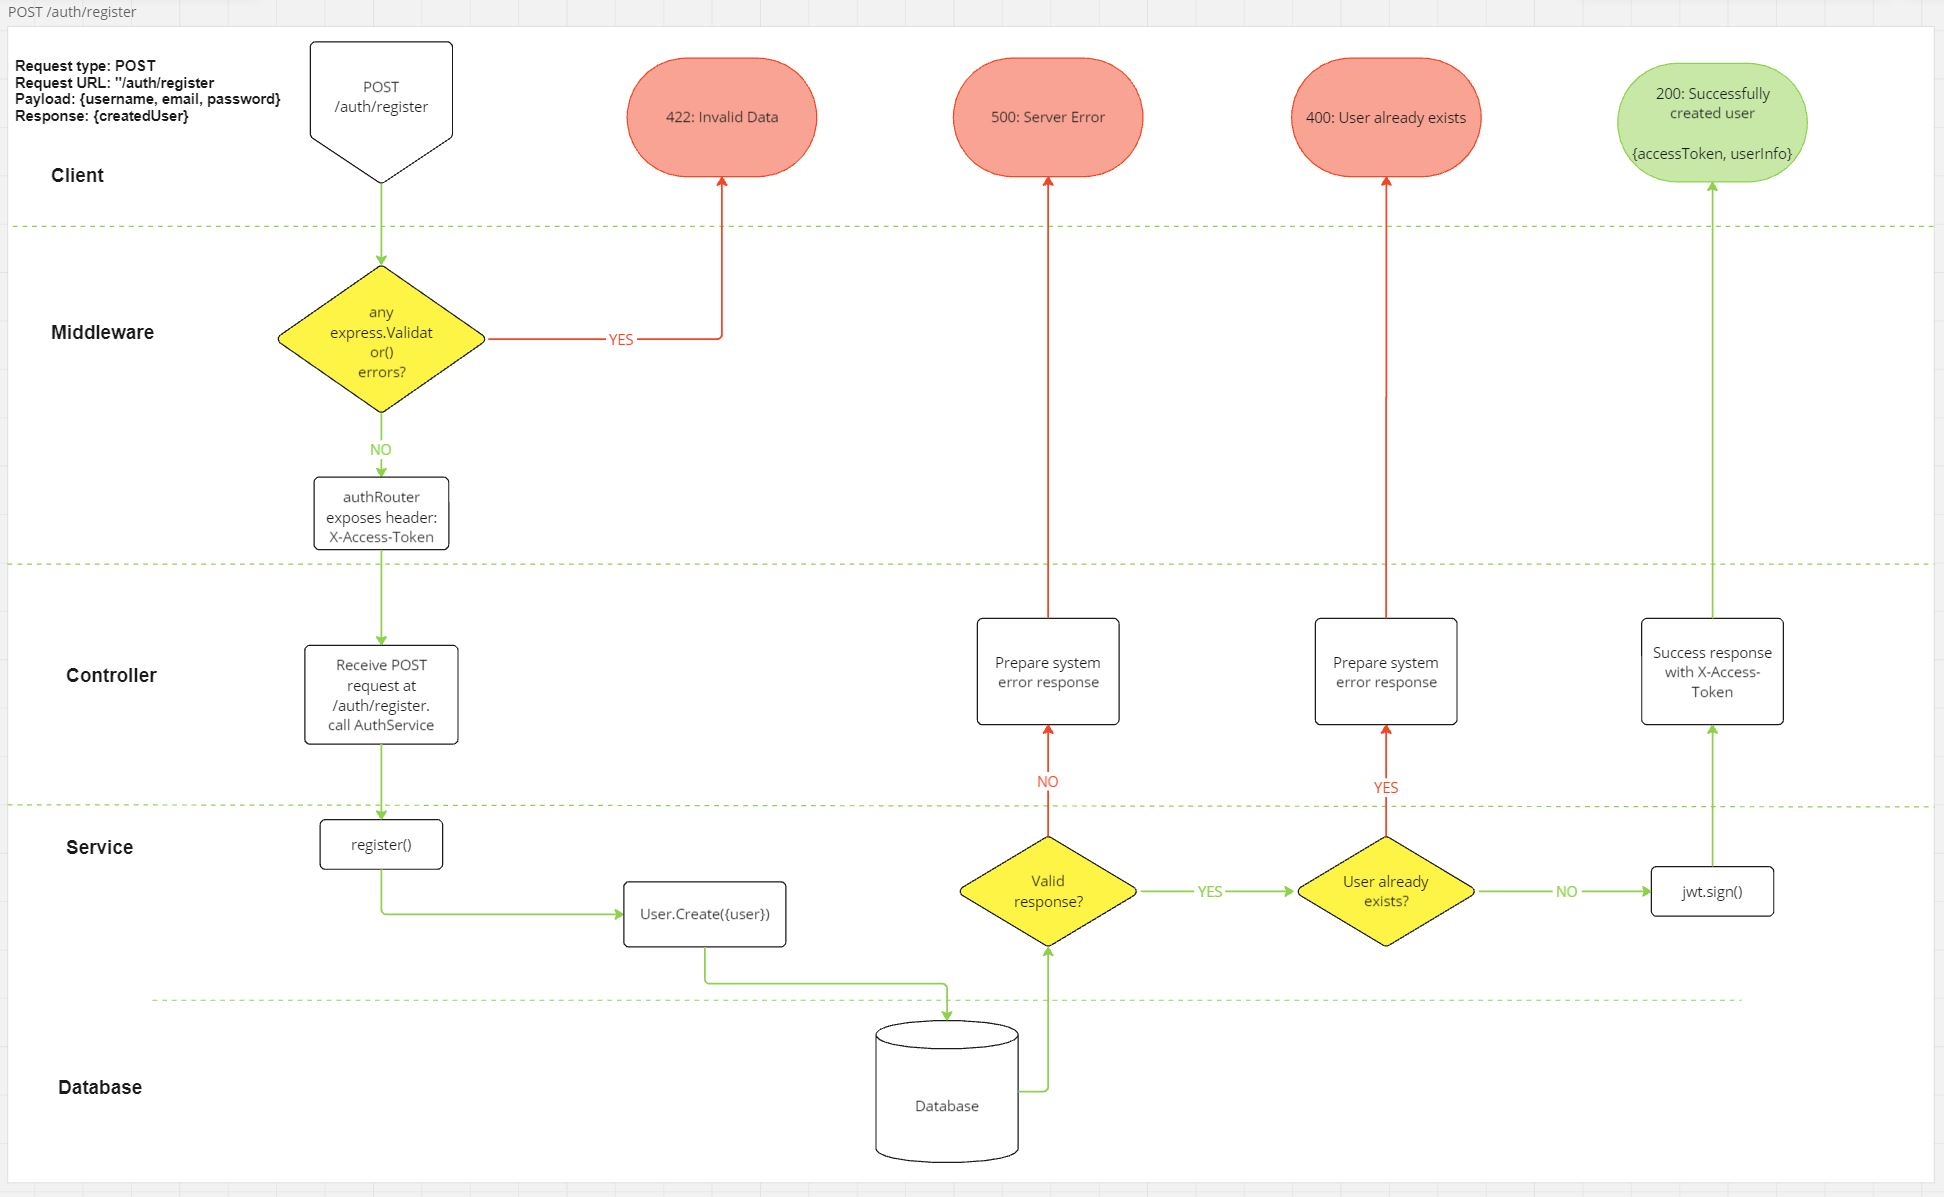
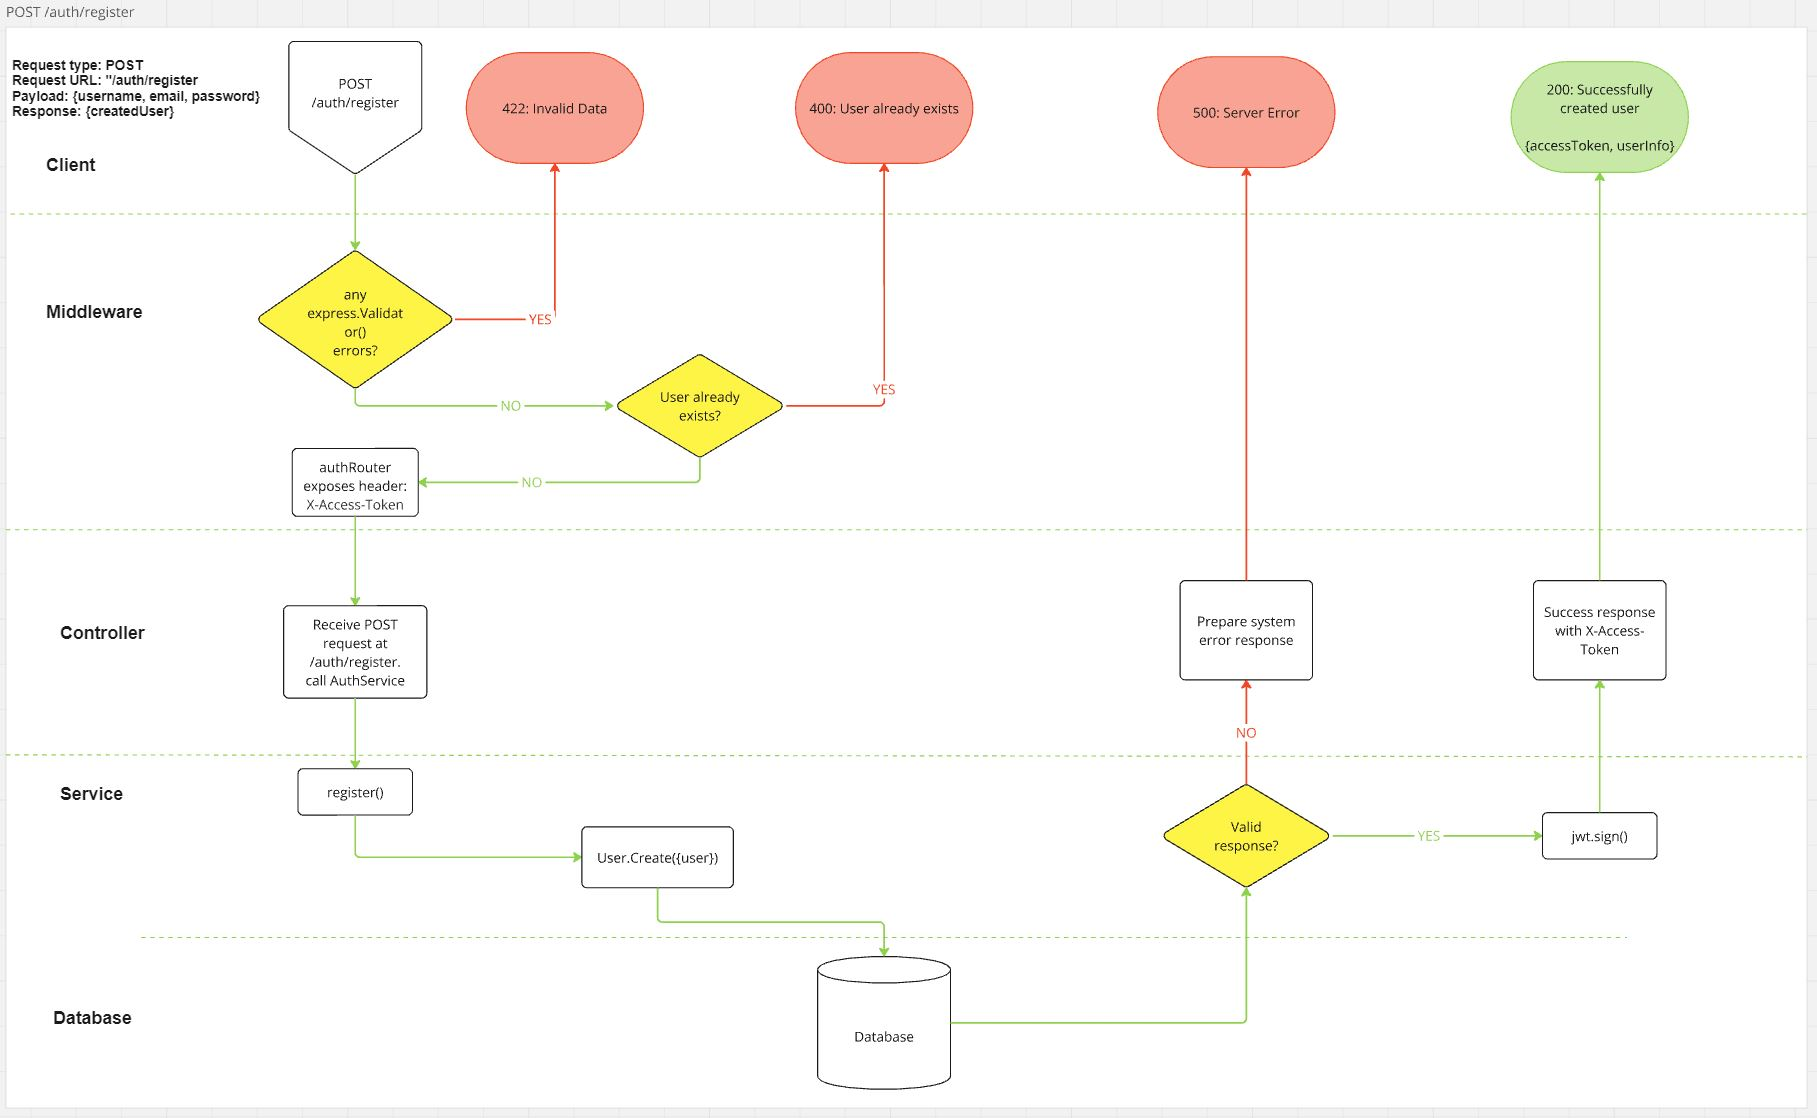
feat: validationmiddleware - checkDuplicateEmail

diff --git a/backend-adventurebank/src/middleware/Validation.middleware.js b/backend-adventurebank/src/middleware/Validation.middleware.js
@@ -1,0 +1,19 @@
+import User from "../models/User.model.js";
+
+export default class ValidationMiddleware {
+  static checkDuplicate = async (req, res, next) => {
+    try {
+      const userToCheck = await User.findOne({ email: req.body.email });
+      if (userToCheck) {
+        res
+          .status(400)
+          .json({ message: "Registration failed - email already exists" });
+      }
+    } catch (error) {
+      res
+        .status(500)
+        .json({ message: "An error ocurred whilst validating your email." });
+    }
+    next();
+  };
+}

diff --git a/backend-adventurebank/src/routes/Auth.routes.js b/backend-adventurebank/src/routes/Auth.routes.js
@@ -1,5 +1,6 @@
 import { Router } from "express";
 import AuthController from "../controllers/Auth.controller.js";
+import ValidationMiddleware from "../middleware/Validation.middleware.js";
 
 export default class AuthRouter {
   #path;
@@ -14,7 +15,11 @@ export default class AuthRouter {
   }
 
   #initialise = () => {
-    this.#router.post("/register", this.#controller.register);
+    this.#router.post(
+      "/register",
+      [ValidationMiddleware.checkDuplicate],
+      this.#controller.register
+    );
   };
 
   getRouter = () => {
